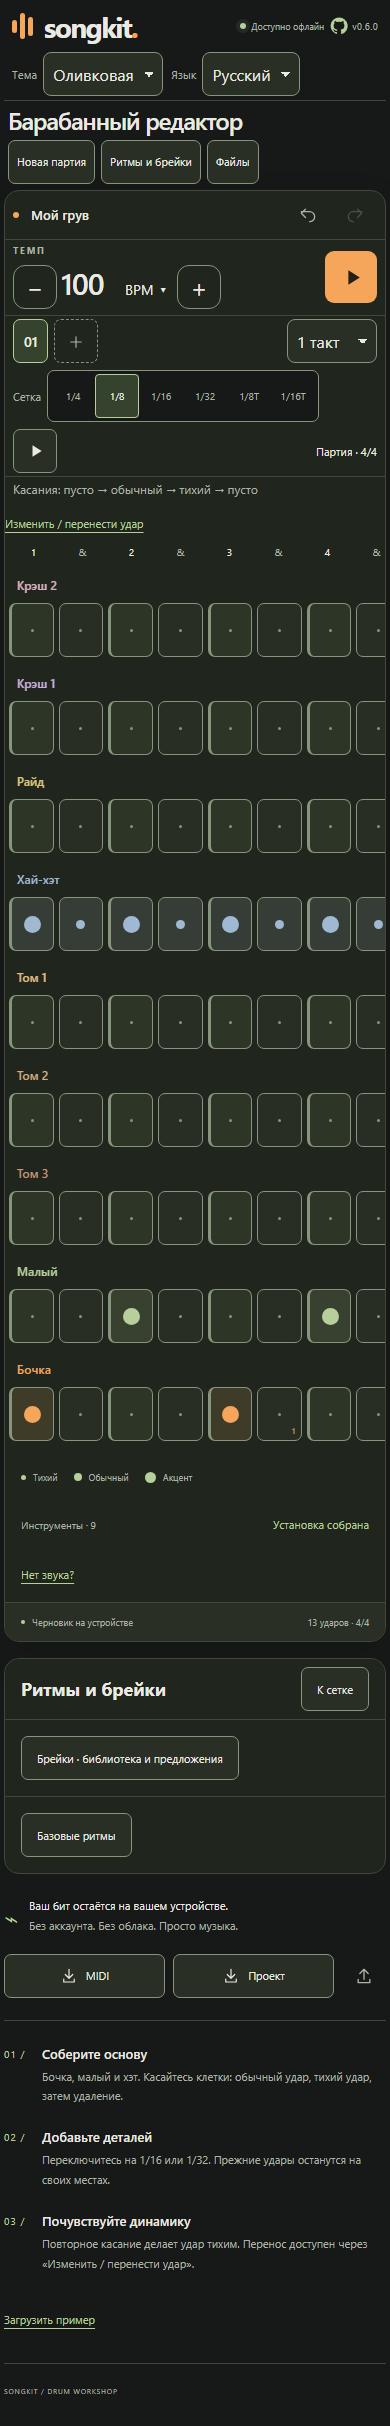
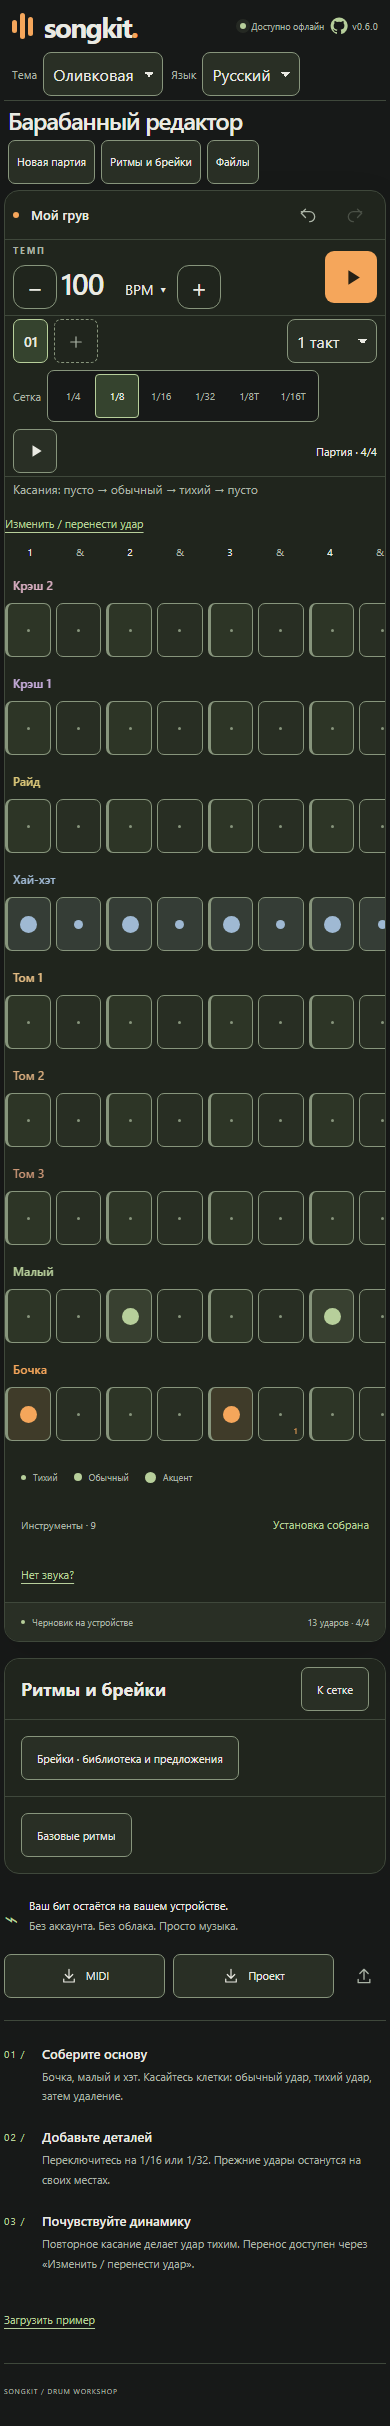
Preserve sticky grid alignment on narrow screens

diff --git a/src/app/styles/global.css b/src/app/styles/global.css
@@ -659,7 +659,6 @@ input[type='range'] {
 }
 .grid-content {
   width: 100%;
-  padding-inline: 4px;
 }
 .beat-ruler {
   height: 33px;
@@ -738,7 +737,7 @@ input[type='range'] {
 }
 .step:focus-visible {
   z-index: 1;
-  outline-offset: 2px;
+  outline-offset: -5px;
 }
 .hit-dot {
   width: 17px;
